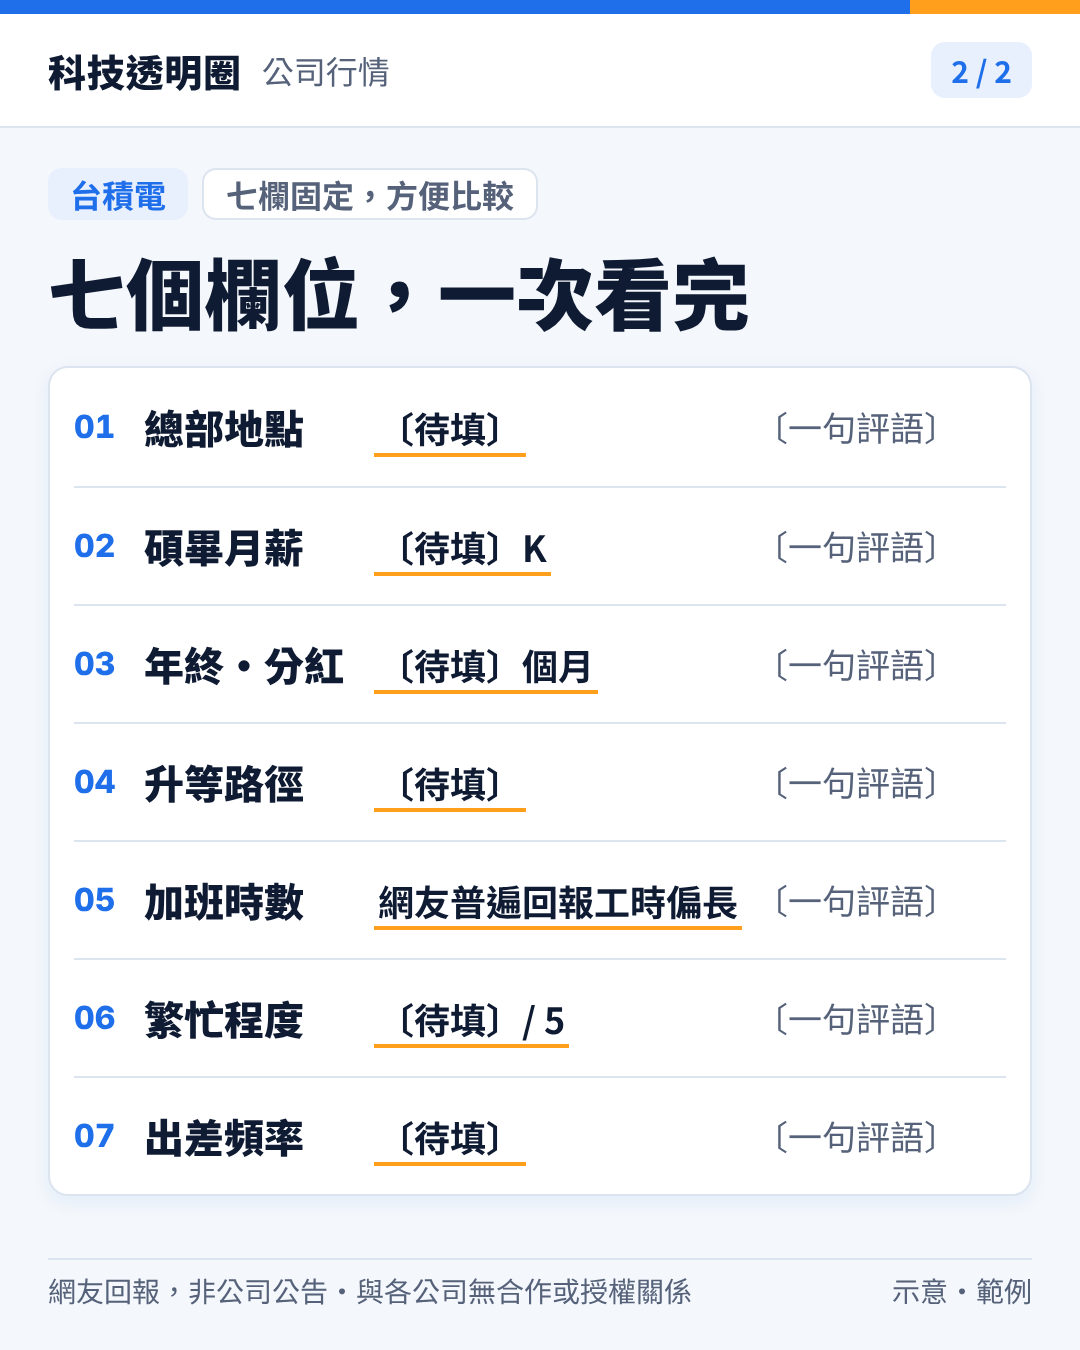
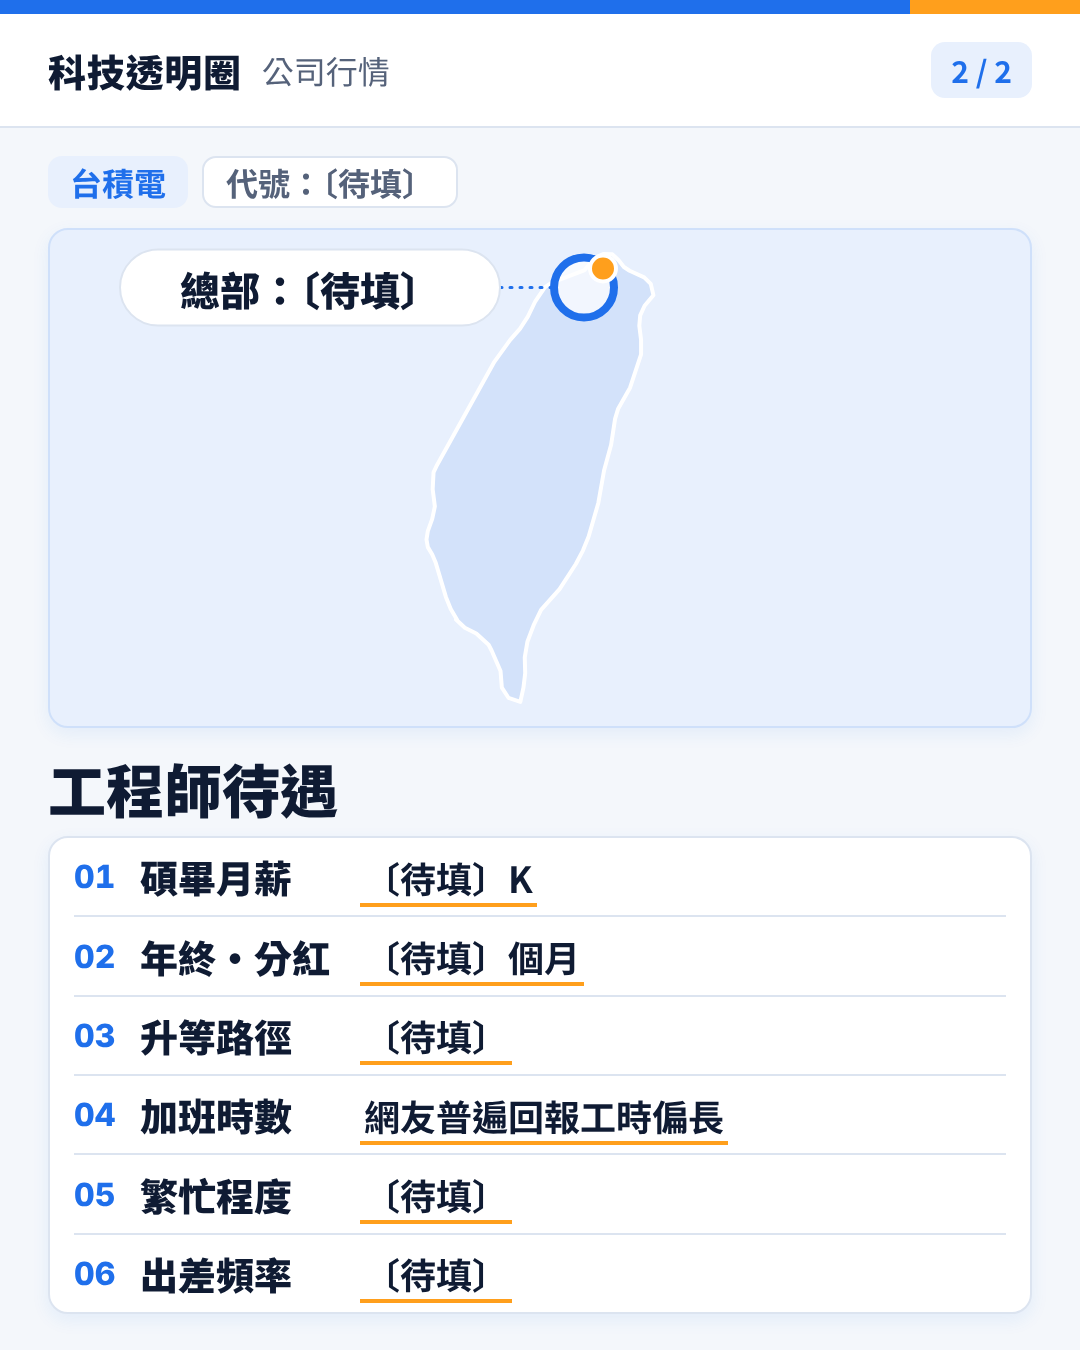
科技透明圈 模板 A1／A2：封面標語＋右滑膠囊鈕、待遇表改台灣地圖＋6 欄（Andy 11-06）
Claude-Session: https://claude.ai/code/session_018gakVRNRsek4G6osuECGNS

diff --git a/docs/tc/assets/scripts/render_samples.py b/docs/tc/assets/scripts/render_samples.py
@@ -133,25 +133,59 @@ PH = lambda t: f'<span class="ph">{t}</span>'
 DISC = "網友回報，非公司公告・與各公司無合作或授權關係"
 
 # ---------------- 範例 A：公司行情（法遵 7-3 六條）----------------
-# 封面：公司已審實景照＋標題；職類／學歷／年資移到副標，碩畢月薪放標題第二行；不放公司 LOGO（整篇有加班等負面欄位，法遵 ④）。
-S["A1_cover"] = cover(
-    f'{NAME}薪資行情<br>碩畢月薪 {PH("〔待填〕")}K',
-    f'職類{PH("〔待填〕")}・碩畢・年資{PH("〔待填〕")}', "往右滑 →",
-    photo_uri("tsmc/photo_18.jpg"), "50% 55%")
-rows = [("總部地點", "〔待填〕"), ("碩畢月薪", "〔待填〕K"), ("年終・分紅", "〔待填〕個月"), ("升等路徑", "〔待填〕"),
-        ("加班時數", "網友普遍回報工時偏長"), ("繁忙程度", "〔待填〕/ 5"), ("出差頻率", "〔待填〕")]
-trs = "".join(f'<div style="display:flex;align-items:center;height:118px;border-top:2px solid {LINE}">'
-              f'<div class="n" style="width:70px;font-size:32px;color:{BLUE}">{i+1:02d}</div>'
-              f'<div style="width:230px;font-size:40px;font-weight:800;white-space:nowrap">{a}</div>'
-              f'<div style="width:380px;font-size:36px"><span class="ph">{b}</span></div>'
-              f'<div style="flex:1;font-size:34px;color:{GREY};white-space:nowrap">〔一句評語〕</div></div>' for i, (a, b) in enumerate(rows))
-# 含「加班」等負面欄位：只寫公司名、不放 LOGO（法遵 ④）
+# 2026-11-06 Andy：「需要有句話代表我的頻道，所以寫在上面」「右滑看透明圈，並且需要不一樣的箭頭」「提示下方的空白不平均」
+# 封面下半部：頻道標語（TAGLINE，一處可換，7～10 字單行）＋「〇〇行情」大標題＋右側「右滑看透明圈」膠囊鈕（自繪 SVG 圓盤箭頭＋橘點，不用文字箭頭），
+# 三者在照片下緣到頁底之間垂直置中（上下留白差 ≤ 2px）。
+TAGLINE = os.environ.get("TC_TAGLINE") or "談薪前，先看這張"   # 頻道標語（暫定；Andy 還沒定稿）
+COVER_HINT = "右滑看透明圈"
+SECTION_TITLE = "工程師待遇"     # 欄位標題；文章若是特定單位，寫成「廣達 BU9 透明圈」這種
+HQ_LABEL = "總部：〔待填〕"   # 地圖上的標示，填成「總部：桃園龜山」之類
+TAG_PX, TT_PX = 48, 108
+SWIPE = (f'<div class="sw"><span>{COVER_HINT}</span>'
+         f'<svg data-b width="76" height="76" viewBox="0 0 76 76"><circle cx="38" cy="38" r="36" fill="#fff"/>'
+         f'<path d="M20 38 H50 M40 26 L52 38 L40 50" fill="none" stroke="{BLUE}" stroke-width="7" stroke-linecap="round" stroke-linejoin="round"/>'
+         f'<circle cx="62" cy="14" r="9" fill="{ORG}" stroke="#fff" stroke-width="3"/></svg></div>')
+SWIPE_CSS = f"""
+.cv .low{{position:absolute;left:{M_L}px;top:{PIC_TOP+PIC_H}px;width:{W-2*M_L}px;height:{H-PIC_TOP-PIC_H}px;display:flex;align-items:center;justify-content:space-between}}
+.cv .tg{{font-size:{TAG_PX}px;font-weight:700;line-height:64px;margin-bottom:16px;color:{INK};white-space:nowrap}}
+.cv .nm{{font-size:{TT_PX}px;font-weight:900;line-height:132px;color:{BLUE};white-space:nowrap}}
+.cv .sw{{display:flex;align-items:center;gap:18px;height:92px;padding:0 8px 0 34px;border-radius:46px;background:{BLUE};color:#fff;font-size:34px;font-weight:700;white-space:nowrap;box-shadow:{SHADOW}}}
+.cv .sw svg{{display:block}}
+"""
+# 封面：公司已審實景照＋標語＋標題；不放公司 LOGO（整篇有加班等負面欄位，法遵 ④）。職類／年資等限定語寫進文案。
+S["A1_cover"] = (f'<div class="cv"><div class="hd"></div><div class="strip"><i></i></div><div class="lg">{OPEN_RING}</div>'
+    f'<div class="pic" data-b style="background-image:url({photo_uri("tsmc/photo_18.jpg")});background-position:50% 55%"></div>'
+    f'<div class="low"><div><div class="tg">{TAGLINE}</div><div class="nm">{NAME}行情</div></div>{SWIPE}</div></div>')
+# 待遇表：上半台灣地圖＋總部位置（world-atlas countries-50m，ISC／Natural Earth 公有領域），下半「工程師待遇」6 欄；每欄只有欄名＋重點值，不放備註與頁底免責（Andy 11-06）
+rows = [("碩畢月薪", "〔待填〕K"), ("年終・分紅", "〔待填〕個月"), ("升等路徑", "〔待填〕"),
+        ("加班時數", "網友普遍回報工時偏長"), ("繁忙程度", "〔待填〕"), ("出差頻率", "〔待填〕")]
+trs = "".join(f'<div class="rw" style="display:flex;align-items:center;flex:1;border-top:2px solid {LINE}">'
+              f'<div class="n" style="width:66px;font-size:32px;color:{BLUE}">{i+1:02d}</div>'
+              f'<div style="width:220px;font-size:38px;font-weight:800;white-space:nowrap">{a}</div>'
+              f'<div style="flex:1;min-width:0;font-size:36px;font-weight:700;white-space:nowrap"><span class="ph">{b}</span></div></div>' for i, (a, b) in enumerate(rows))
+TW = json.load(open(Path(__file__).resolve().parent / "taiwan_path.json"))   # 由 make_taiwan_path.mjs 產生
+MAP_W, MAP_H = 980, 496           # 地圖 svg 尺寸（卡片 984x500 扣 2px 邊框；body 左右各 48）
+IS_H = 448                        # 台灣本島高度（寬依比例）
+IS_W = IS_H * TW["w"] / TW["h"]
+IS_X, IS_Y = (MAP_W - IS_W) / 2, (MAP_H - IS_H) / 2
+k = IS_H / TW["h"]
+PX_, PY_ = IS_X + TW["pt"][0] * k, IS_Y + TW["pt"][1] * k   # 桃園龜山（25.03N、121.36E）；換公司時改 make_taiwan_path.mjs 的座標
+LBL_W, LBL_H = 380, 76
+LBL_X, LBL_Y = 70, PY_ - LBL_H / 2
+MAP_SVG = (f'<svg data-b width="{MAP_W}" height="{MAP_H}" viewBox="0 0 {MAP_W} {MAP_H}" style="display:block">'
+    f'<g transform="translate({IS_X:.1f} {IS_Y:.1f}) scale({k:.5f})"><path d="{TW["d"]}" fill="#D3E2FA" stroke="#fff" stroke-width="{4/k:.1f}" stroke-linejoin="round"/></g>'
+    f'<line x1="{LBL_X+LBL_W}" y1="{PY_:.1f}" x2="{PX_-30:.1f}" y2="{PY_:.1f}" stroke="{BLUE}" stroke-width="3" stroke-dasharray="2 8" stroke-linecap="round"/>'
+    f'<circle cx="{PX_:.1f}" cy="{PY_:.1f}" r="30" fill="#fff" fill-opacity=".7" stroke="{BLUE}" stroke-width="8"/>'
+    f'<circle cx="{PX_+19:.1f}" cy="{PY_-19:.1f}" r="13" fill="{ORG}" stroke="#fff" stroke-width="4"/>'
+    f'<rect x="{LBL_X}" y="{LBL_Y:.1f}" width="{LBL_W}" height="{LBL_H}" rx="38" fill="#fff" stroke="{LINE}" stroke-width="2"/>'
+    f'<text x="{LBL_X+LBL_W/2}" y="{LBL_Y+LBL_H/2+1:.1f}" text-anchor="middle" dominant-baseline="central" font-size="40" font-weight="800" fill="{INK}" font-family="Noto Sans TC">{HQ_LABEL}</text></svg>')
 S["A2_fields_textonly"] = f"""{top('公司行情', '2 / 2')}
-<div class="body" style="padding-top:40px">
-  <div style="display:flex;gap:14px"><span class="tag">{NAME}</span><span class="tag g">七欄固定，方便比較</span></div>
-  <div style="font-size:78px;font-weight:900;line-height:1.2;margin-top:24px">七個欄位，一次看完</div>
-  <div class="box" style="margin-top:28px">{trs}</div>
-</div>{ft(DISC)}"""
+<div class="body" style="padding-top:28px">
+  <div style="display:flex;gap:14px"><span class="tag">{NAME}</span><span class="tag g">代號：〔待填〕</span></div>
+  <div class="card" style="margin-top:20px;height:{MAP_H+4}px;background:{TINT};border-color:#CFE0FA;overflow:hidden;flex:none">{MAP_SVG}</div>
+  <div style="font-size:58px;font-weight:900;line-height:80px;margin-top:20px;flex:none">{SECTION_TITLE}</div>
+  <div class="box" style="margin-top:8px;margin-bottom:36px;flex:1;display:flex;flex-direction:column;min-height:0">{trs}</div>
+</div>"""
 S["A3_cta"] = f"""{top('公司行情', '3 / 3')}
 <div class="body">
   <div style="font-size:50px;font-weight:700;color:{GREY};margin-top:40px">你那一組的行情是多少？</div>
@@ -281,7 +315,7 @@ report = {}
 with sync_playwright() as p:
     b = p.chromium.launch(executable_path="/opt/pw-browsers/chromium")
     for name, html in S.items():
-        doc = f'<!doctype html><html><head><meta charset="utf-8">{FONTCSS}<style>{CSS}{COVER_CSS}</style></head><body>{html}</body></html>'
+        doc = f'<!doctype html><html><head><meta charset="utf-8">{FONTCSS}<style>{CSS}{COVER_CSS}{SWIPE_CSS}</style></head><body>{html}</body></html>'
         f = OUT / f"_{name}.html"; f.write_text(doc, encoding="utf8")
         pg = b.new_page(viewport={"width": W, "height": H}, device_scale_factor=1)
         pg.goto(f"file://{f}", wait_until="networkidle"); pg.wait_for_timeout(600)
